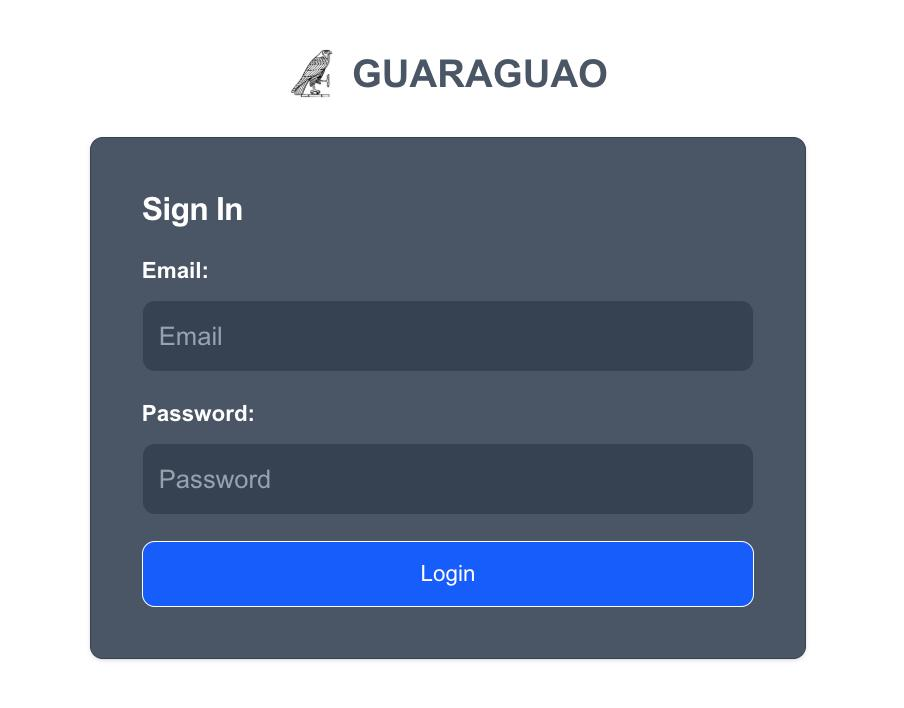
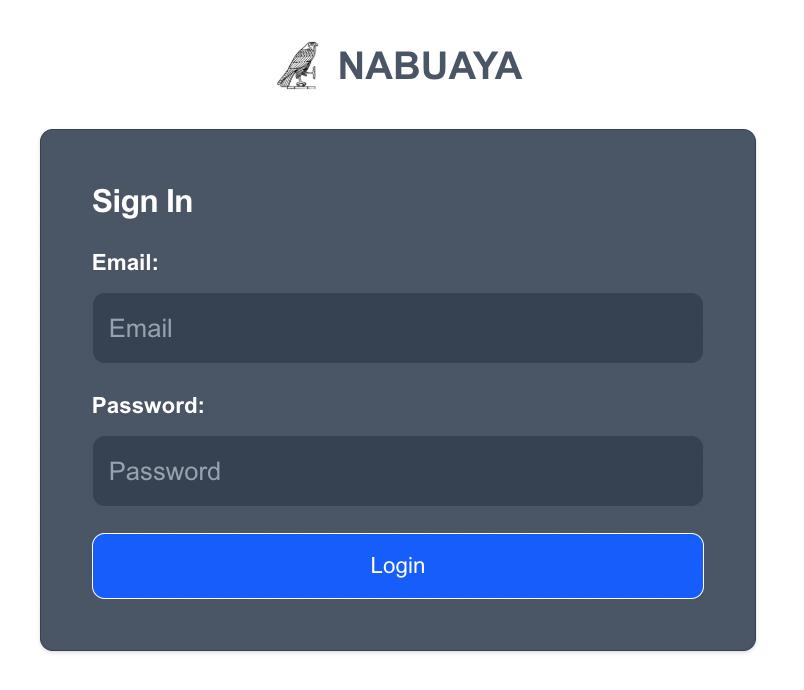
name and description

Changed region(s): [[0.0311, 0.1826, 0.9639, 0.9435], [0.3109, 0.0609, 0.6841, 0.1522]]

diff --git a/frontend/src/app/components/Login.jsx b/frontend/src/app/components/Login.jsx
@@ -26,7 +26,7 @@ export default function Login() {
                 <a href="#" className="flex items-center mb-6 text-2xl font-semibold text-gray-900 dark:text-gray-600">
                     <img className="w-8 h-8 mr-2" src="https://images.fineartamerica.com/images/artworkimages/mediumlarge/1/egyptian-symbol-falcon-granger.jpg" alt="logo" />
                     
-                    GUARAGUAO
+                    NABUAYA
                 </a>
                 <div className='w-full bg-white rounded-lg shadow dark:border md:mt-0 sm:max-w-md xl:p-0 dark:bg-gray-600 dark:border-gray-700'>
                     <div className='p-6 space-y-4 md:space-y-6 sm:p-8'>

diff --git a/README.md b/README.md
@@ -1,9 +1,11 @@
-# Image-Upload-API [*//*]
+# NabuAya Archive [*//*]
 
 ```markdown 
-# 🚀 FastAPI Image Upload Interface
+# 🚀 Brief Description
 
-> A sleek, minimal file upload demo built with **FastAPI** and vanilla **HTML/CSS/JS** to learn full-stack file handling, static file serving, and dynamic image previews.
+> A fullstack registry and activity logging system integrating facial recognition, demographic data management, and secure API-based retrieval. Built with FastAPI, MongoDB, and a Next.js frontend, the application captures and stores facial encodings alongside personal identifiers such as name, date of birth, and address. Features include authenticated data access, CRUD operations, and facial match-based querying for demographic insights and activity tracking.
+
+
 
 ---
 
